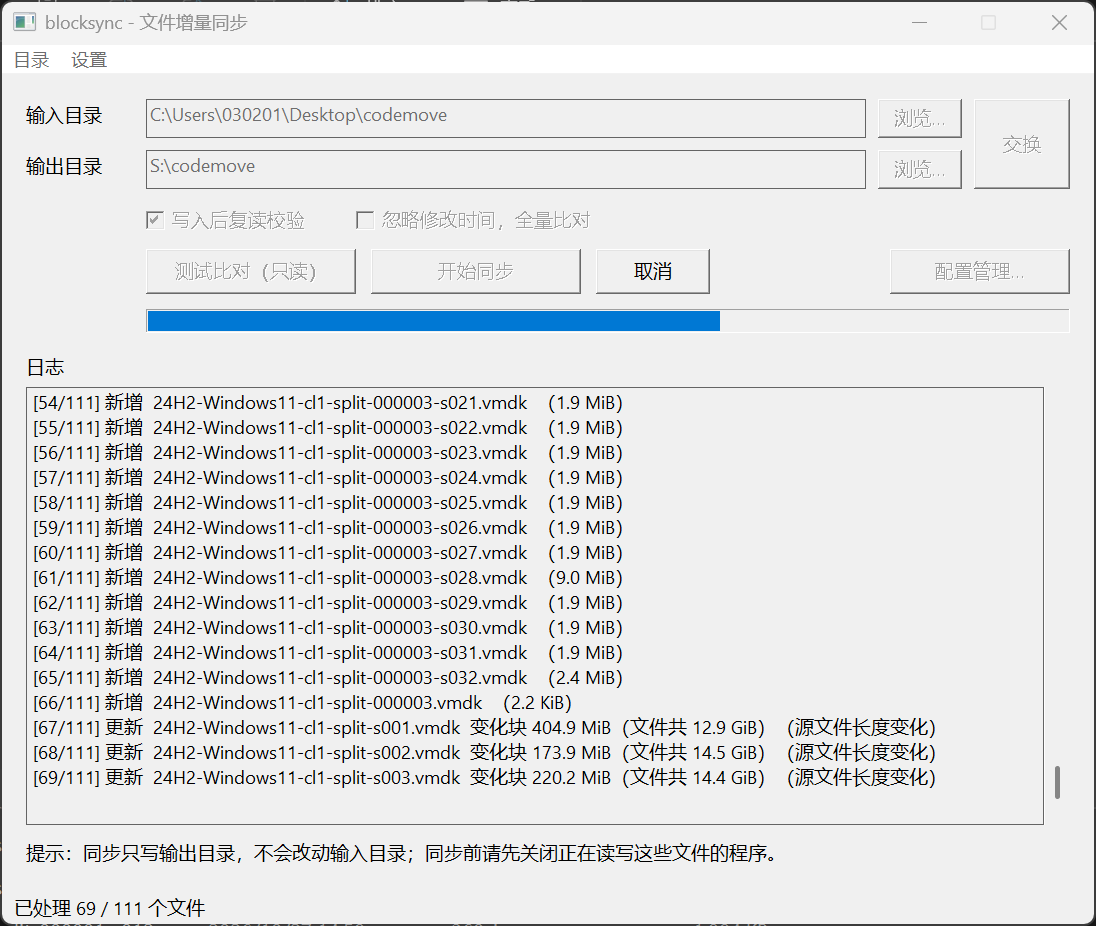
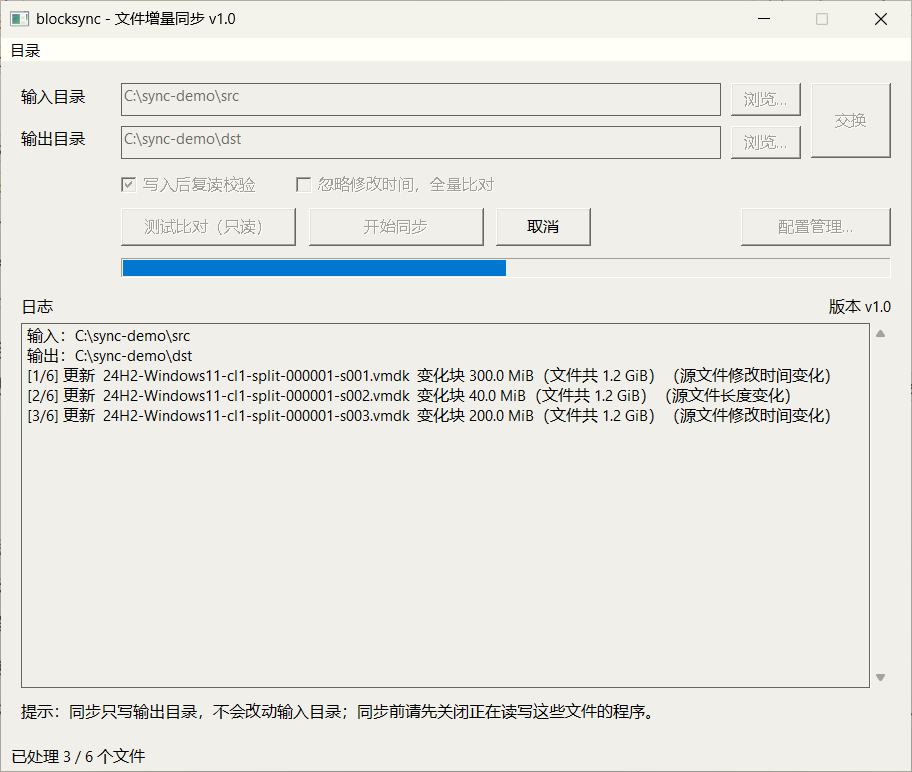
docs: 更新界面截图并补充文档格式的增量限制说明
- 替换同步完成态截图，移除旧的测试比对截图
- README 补充文档格式的增量限制说明
- 图形界面文档同步截图引用

diff --git a/README.md b/README.md
@@ -1,11 +1,15 @@
 # BlockSync
 
-块级增量同步工具：把一个目录增量镜像到另一个目录，**只写入发生变化的块**，而不是整个文件全量复制。
+针对大文件的块级增量同步工具：把一个目录增量镜像到另一个目录时，**只写入发生变化的块**，而不是整个文件全量复制。
 
-常规同步工具以文件为最小单位：2 GB 的文件修改 100 字节，仍然要复制整个 2 GB。BlockSync 把文件切成 32 KiB 的块并记录 SHA-256，按块比较差异，一次同步只搬运变化的部分。对大文件反复小幅修改的场景（虚拟机磁盘、数据库文件、磁盘镜像、视频工程），写入量可以下降一到两个数量级。
+> 2 GB 文件改动 100 MB，只需增量同步 100 MB，而不是同步整个文件。
 
-![只读比对：报告文件状态与变化块写入量](blocksync-ui.png)
+常规同步工具以文件为最小单位，改一点也要重传整个文件。
+BlockSync 把文件切成 32 KiB 的块并记录 SHA-256，按块比较差异，一次同步只搬运变化的部分。对大文件反复小幅修改的场景（虚拟机磁盘、数据库文件、磁盘镜像、视频工程），写入量可以下降一到两个数量级。
+
 ![同步运行中：逐文件报告状态与变化块写入量](blocksync-ui.png)
+
+![同步完成：逐文件变化块与合计读写量](blocksync-ui-done.png)
 
 ## 功能特性
 
@@ -15,6 +19,13 @@
 - **多级安全开关**：测试比对（只读）、写入后复读校验（`--verify`）、忽略修改时间的全量比对（`--full`）。
 - **防误操作设计**：输入目录只读；目录嵌套、硬链接改写源、超量删除等均会被拦截；首次同步与删除前需要确认。
 - **零依赖单文件**：Windows 64 位，带 GUI 的版本连 CLI 都内置，拷一个 exe 即可运行。
+
+> [!NOTE]
+> 已知限制：该程序在处理 .doc、.docx、.xlsx、.pptx 等文档格式时，会整文件重传，增量同步功能**不起作用**（即使只改了一个字）。
+>
+> 原因：这类文件是容器格式（.docx 等为 zip 压缩归档，.doc 为 OLE 复合文档），保存时整包重写，压缩流与内部偏移随之变化，按固定偏移切分的 32 KiB 块几乎全部不同。BlockSync 按固定偏移比较块哈希，不做内容定义分块，数据位移不会自动对齐。
+>
+> 影响：**同步结果正确，但失去增量收益**，这类文件交由整文件复制的工具更省时；大块追加或局部改写的数据（虚拟机磁盘、数据库文件、磁盘镜像、日志）**不受此限制**。
 
 ## 适用场景
 

diff --git a/wiki/图形界面.md b/wiki/图形界面.md
@@ -4,7 +4,7 @@
 
 ![同步运行中：逐文件报告状态与变化块写入量](../blocksync-ui.png)
 
-![测试比对汇总、跨运行日志保留与目录锁提示](../blocksync-ui-dryrun.png)
+![同步完成：逐文件变化块与合计读写量](../blocksync-ui-done.png)
 
 ## 1. 单文件形态与嵌入机制
 
